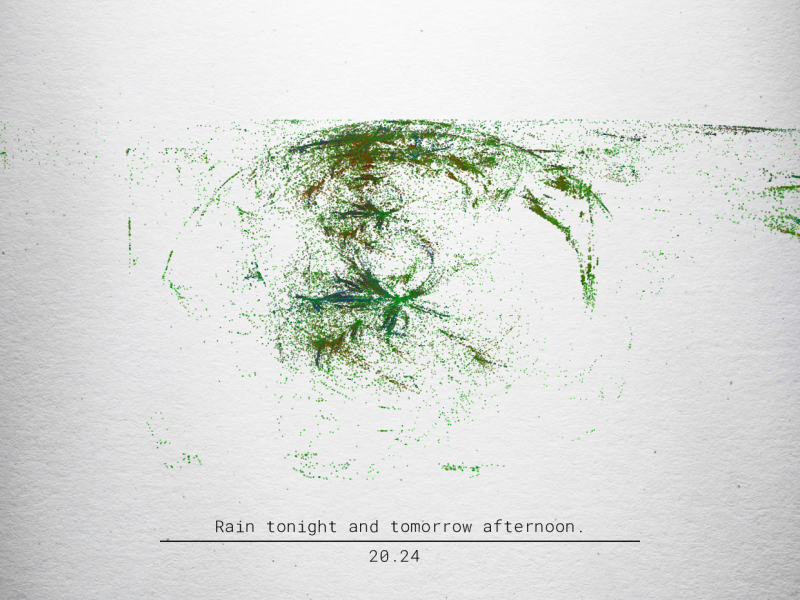
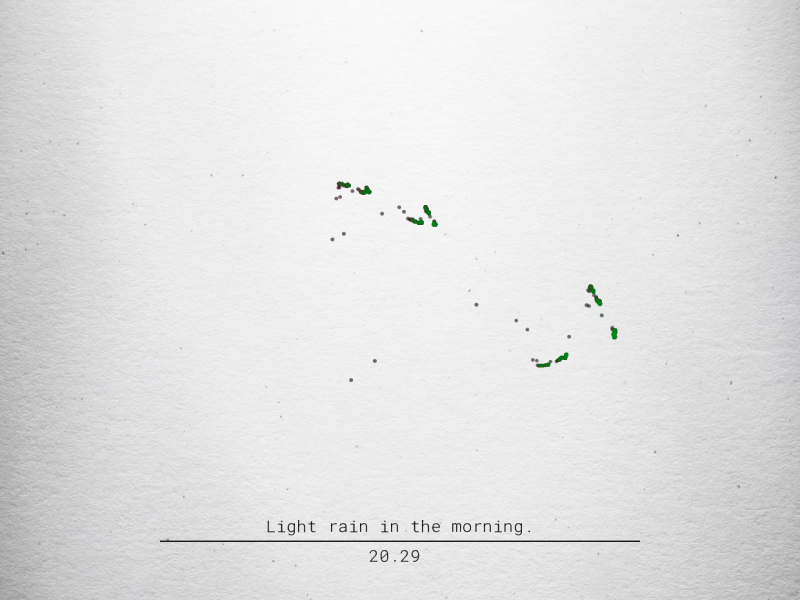
using daily summary instead of 4 day summary

diff --git a/dist/renderer.js b/dist/renderer.js
@@ -29,6 +29,8 @@ var _loadWeatherString = require('./loadWeatherString');
 
 var _drawText = require('./drawText');
 
+var _mapSeed = require('./mapSeed');
+
 function _interopRequireDefault(obj) { return obj && obj.__esModule ? obj : { default: obj }; }
 
 var readCanvas = function readCanvas(canvas) {
@@ -41,7 +43,7 @@ var readCanvas = function readCanvas(canvas) {
 
 var render = function () {
     var _ref = (0, _asyncToGenerator3.default)( /*#__PURE__*/_regenerator2.default.mark(function _callee(canvas, options) {
-        var weatherData, background, time, flame;
+        var weatherData, background, time, newSeed, flame;
         return _regenerator2.default.wrap(function _callee$(_context) {
             while (1) {
                 switch (_context.prev = _context.next) {
@@ -58,23 +60,28 @@ var render = function () {
                         background = _context.sent;
                         time = new Date().getHours() / 24;
 
-                        (0, _generate.generate)({ canvas: canvas, seed: weatherData.seed, time: time });
-                        _context.next = 10;
+                        console.log('orig seed: ' + weatherData.seed);
+                        newSeed = (0, _mapSeed.mapSeed)(weatherData.seed);
+
+                        console.log('new seed: ' + newSeed);
+
+                        (0, _generate.generate)({ canvas: canvas, seed: newSeed, time: time });
+                        _context.next = 13;
                         return readCanvas(canvas);
 
-                    case 10:
+                    case 13:
                         flame = _context.sent;
 
                         background.resize(flame.bitmap.width, flame.bitmap.height);
                         background.brightness(0.3);
                         background.composite(flame, 0, 0);
-                        _context.next = 16;
+                        _context.next = 19;
                         return (0, _drawText.drawText)({ image: background, data: weatherData });
 
-                    case 16:
+                    case 19:
                         return _context.abrupt('return', background);
 
-                    case 17:
+                    case 20:
                     case 'end':
                         return _context.stop();
                 }

diff --git a/src/renderer.js b/src/renderer.js
@@ -4,6 +4,7 @@ import { generate } from './generate';
 import { loadBackground } from './loadBackground';
 import { loadWeatherString } from './loadWeatherString';
 import { drawText } from './drawText';
+import { mapSeed } from './mapSeed';
 
 const readCanvas = (canvas) => {
     return new Promise((resolve) => {
@@ -17,7 +18,11 @@ const render = async (canvas, options) => {
     const weatherData = await loadWeatherString(options);
     const background = await loadBackground();
     const time = (new Date()).getHours() / 24;
-    generate({ canvas, seed: weatherData.seed, time });
+    console.log(`orig seed: ${weatherData.seed}`);
+    const newSeed = mapSeed(weatherData.seed);
+    console.log(`new seed: ${newSeed}`);
+
+    generate({ canvas, seed: newSeed, time });
     const flame = await readCanvas(canvas);
     background.resize(flame.bitmap.width, flame.bitmap.height);
     background.brightness(0.3);

diff --git a/dist/loadWeatherString.js b/dist/loadWeatherString.js
@@ -87,10 +87,10 @@ var loadWeatherString = exports.loadWeatherString = function () {
                     case 5:
                         weather = _context.sent;
                         return _context.abrupt('return', {
-                            summary: weather.hourly.summary,
+                            summary: weather.daily.data[0].summary,
                             tempMin: Math.round(weather.daily.data[0].temperatureLow),
                             tempMax: Math.round(weather.daily.data[0].temperatureHigh),
-                            seed: weather.hourly.icon
+                            seed: weather.daily.data[0].summary
                         });
 
                     case 9:

diff --git a/dist/mapSeed.js b/dist/mapSeed.js
@@ -1,0 +1,21 @@
+'use strict';
+
+Object.defineProperty(exports, "__esModule", {
+    value: true
+});
+exports.mapSeed = undefined;
+
+var _fs = require('fs');
+
+var _fs2 = _interopRequireDefault(_fs);
+
+var _path = require('path');
+
+var _path2 = _interopRequireDefault(_path);
+
+function _interopRequireDefault(obj) { return obj && obj.__esModule ? obj : { default: obj }; }
+
+var mapSeed = exports.mapSeed = function mapSeed(seed) {
+    var map = JSON.parse(_fs2.default.readFileSync(_path2.default.join(__dirname, '../public/sampleSeedMap.json')));
+    return map[seed] || seed;
+};

diff --git a/src/loadWeatherString.js b/src/loadWeatherString.js
@@ -43,10 +43,10 @@ export const loadWeatherString = async ({ lat = 40.3482922, lon = -74.7398824, d
     try {
         const weather = await requestWeather({ lat, lon, darkKey });
         return {
-            summary: weather.hourly.summary,
+            summary: weather.daily.data[0].summary,
             tempMin: Math.round(weather.daily.data[0].temperatureLow),
             tempMax: Math.round(weather.daily.data[0].temperatureHigh),
-            seed: weather.hourly.icon,
+            seed: weather.daily.data[0].summary,
         };
     } catch (error) {
         return {

diff --git a/dist/drawText.js b/dist/drawText.js
@@ -63,12 +63,11 @@ var drawText = exports.drawText = function () {
                         estimatedTempLength = tempText.length * 16;
 
                         tempText += '' + data.tempMax;
-                        console.log(tempText);
                         tempX = image.bitmap.width / 2 - estimatedTempLength;
 
                         image.print(font, tempX, lineYPos + 12, tempText);
 
-                    case 18:
+                    case 17:
                     case 'end':
                         return _context.stop();
                 }

diff --git a/src/drawText.js b/src/drawText.js
@@ -23,7 +23,6 @@ export const drawText = async ({ image, data }) => {
     let tempText = `${data.tempMin}.`;
     const estimatedTempLength = tempText.length * 16;
     tempText += `${data.tempMax}`;
-    console.log(tempText);
     const tempX = (image.bitmap.width / 2) - estimatedTempLength;
     image.print(font, tempX, lineYPos + 12, tempText);
 };

diff --git a/src/mapSeed.js b/src/mapSeed.js
@@ -1,0 +1,7 @@
+import fs from 'fs';
+import path from 'path';
+
+export const mapSeed = (seed) => {
+    const map = JSON.parse(fs.readFileSync(path.join(__dirname, '../public/sampleSeedMap.json')));
+    return (map[seed] || seed);
+};
